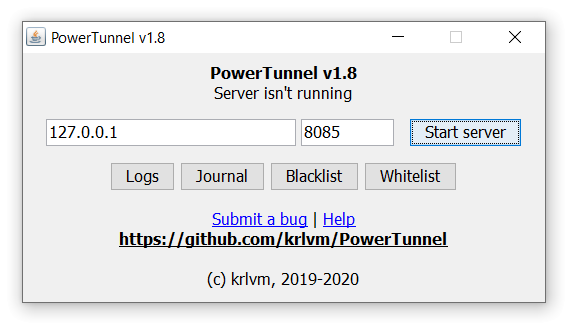
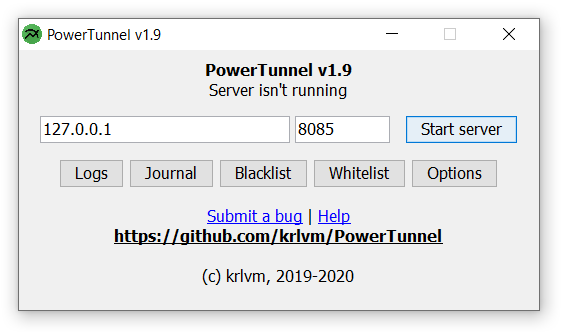
Update readme

diff --git a/README.md b/README.md
@@ -35,8 +35,11 @@ Also, you can try launching PowerTunnel with `-full-chunking` argument.
 ## User interface
 You can monitor network activity, block and whitelist websites through Java Swing-based user interface when console mode is off or through [PowerTunnel Monitor](https://github.com/krlvm/PowerTunnel/wiki/PowerTunnel-Monitor).
 
-## Launch arguments
-You can specify some params through the CLI:
+## Configuring PowerTunnel
+### From User Interface
+![User Interface for configuring the program](https://raw.githubusercontent.com/krlvm/PowerTunnel/master/images/options.png "User Interface for configuring the program")
+### Launch arguments
+You can specify some params that will override settings through the CLI:
 
 ```
 java -jar PowerTunnel.jar
